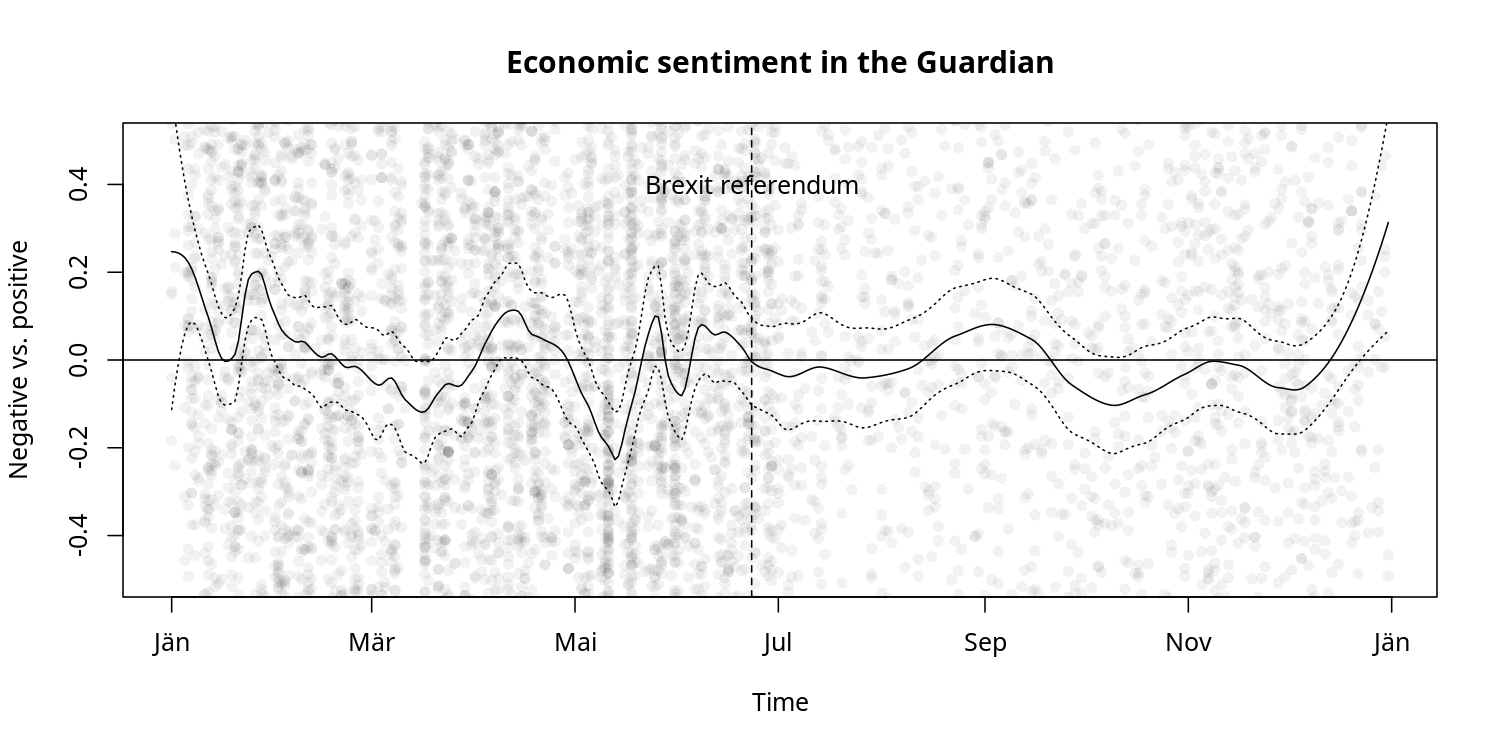
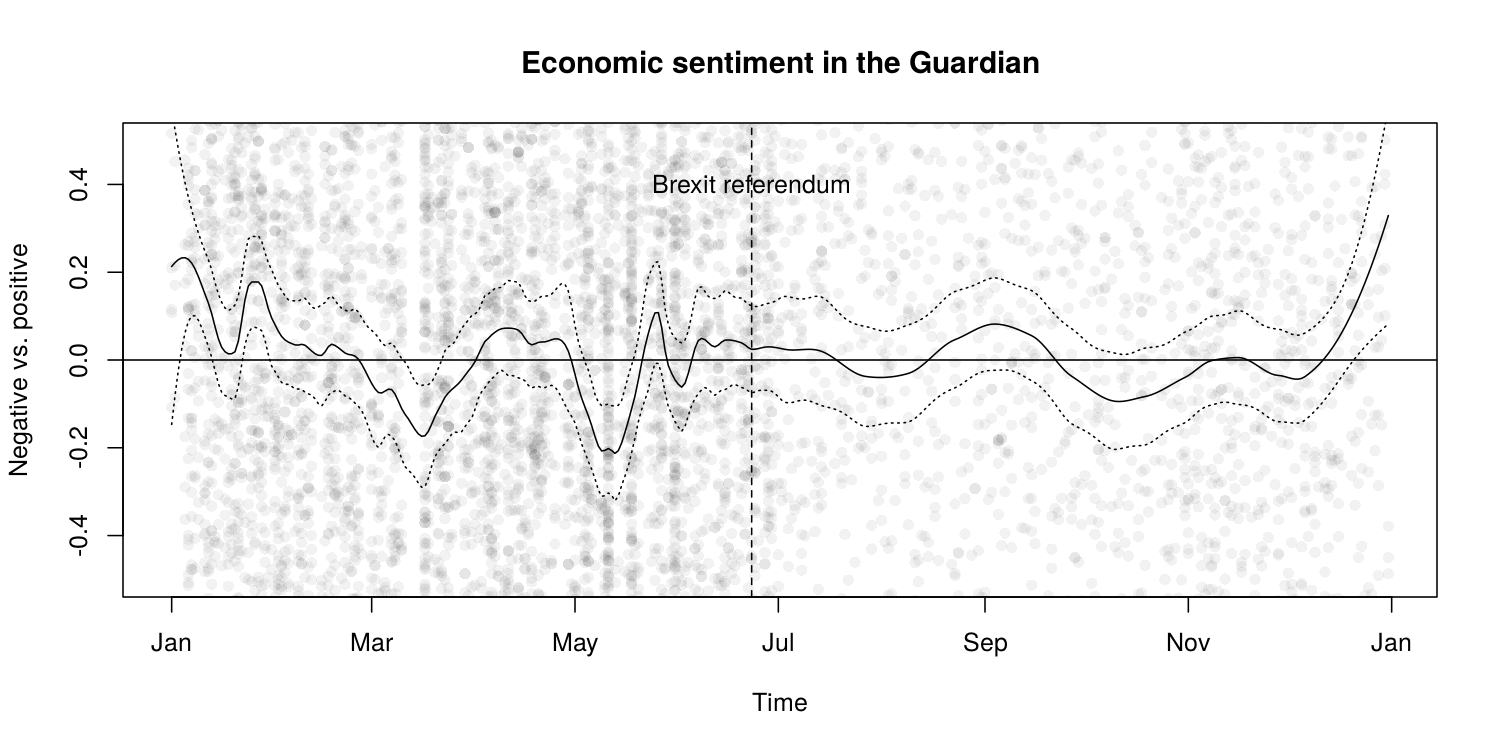
Update README and MAN

diff --git a/README.md b/README.md
@@ -32,6 +32,10 @@ recent research projects:
     Ukraine](http://www.tandfonline.com/eprint/tWik7KDfsZv8C2KeNkI5/full)",
     *Europe-Asia Studies*
 
+Please read [my working
+paper](https://blog.koheiw.net/wp-content/uploads/2020/04/LSS-06.pdf)"
+for the algorothm and methodolgy.
+
 ## How to install
 
 ``` r
@@ -68,11 +72,11 @@ dfmt_sent <- toks_sent %>%
     dfm_trim(min_termfreq = 5)
 
 eco <- char_keyness(toks_sent, "econom*", p = 0.05)
-tmod_lss <- textmodel_lss(dfmt_sent, as.seedwords(data_dictionary_sentiment),
-                          feature = eco, cache = TRUE)
+lss <- textmodel_lss(dfmt_sent, as.seedwords(data_dictionary_sentiment),
+                     feature = eco, cache = TRUE, k = 300)
 ```
 
-    ## Reading cache file: lss_cache/svds_a588a327e03cb074.RDS
+    ## Reading cache file: lss_cache/svds_34e08f32419c9eca.RDS
 
 ### Sentiment seed words
 
@@ -95,37 +99,37 @@ to seed
     words.
 
 ``` r
-head(coef(tmod_lss), 20) # most positive words
+head(coef(lss), 20) # most positive words
 ```
 
-    ##       legal       shape      either    positive      monday sustainable 
-    ##  0.04467974  0.04030600  0.03729081  0.03594595  0.03324765  0.03267820 
-    ##   expecting      decent    emerging     several        york   candidate 
-    ##  0.03235872  0.03105931  0.03077907  0.03048184  0.02915092  0.02874260 
-    ## challenging        able  powerhouse        asia    northern       thing 
-    ##  0.02799373  0.02758163  0.02700428  0.02689114  0.02672865  0.02663936 
-    ##        drag       stock 
-    ##  0.02627880  0.02617401
+    ##       shape      either    positive      monday   expecting sustainable 
+    ##  0.04017038  0.03745197  0.03602651  0.03352895  0.03307553  0.03277666 
+    ##      decent     several    emerging        york   candidate challenging 
+    ##  0.03084942  0.03080686  0.03046641  0.02925947  0.02883487  0.02801757 
+    ##      argued        able  powerhouse        asia       thing        drag 
+    ##  0.02770138  0.02753339  0.02724199  0.02715581  0.02663417  0.02638054 
+    ##       stock         aid 
+    ##  0.02608997  0.02603547
 
 ``` r
-tail(coef(tmod_lss), 20) # most negative words
+tail(coef(lss), 20) # most negative words
 ```
 
-    ##        allow      nothing       shrink      cutting      problem        grows 
-    ##  -0.03653112  -0.03718793  -0.03752405  -0.03762728  -0.03795939  -0.03860088 
-    ##         debt implications       happen policymakers    suggested    something 
-    ##  -0.03907404  -0.03925240  -0.03925315  -0.04015877  -0.04092905  -0.04308314 
-    ##     interest    borrowing unemployment         hike         rate        rates 
-    ##  -0.04312183  -0.04493415  -0.04511959  -0.04540284  -0.04862177  -0.04875790 
-    ##          rba     negative 
-    ##  -0.05088908  -0.06187295
+    ##     actually        allow      nothing      cutting       shrink        grows 
+    ##  -0.03527976  -0.03671954  -0.03702909  -0.03735588  -0.03815107  -0.03851795 
+    ##         debt implications policymakers    suggested     interest    something 
+    ##  -0.03872739  -0.03942620  -0.04015681  -0.04115879  -0.04288522  -0.04311322 
+    ##    borrowing unemployment         hike        rates         rate          rba 
+    ##  -0.04490576  -0.04508967  -0.04572553  -0.04857283  -0.04878567  -0.05076572 
+    ##          cut     negative 
+    ##  -0.05599481  -0.06169430
 
 This plot shows that frequent words (“said”, “people”, “also”) are
 neutral while less frequent words such as “borrowing”, “unemployment”,
 “emerging” and “efficient” are either negative or positive.
 
 ``` r
-textplot_scale1d(tmod_lss, 
+textplot_scale1d(lss, 
                  highlighted = c("said", "people", "also",
                                  "borrowing", "unemployment",
                                  "emerging", "efficient"))
@@ -147,7 +151,7 @@ neutral (overall mean) on the day of voting (broken line).
 dfmt <- dfm(corp)
 
 # predict sentiment scores
-pred <- as.data.frame(predict(tmod_lss, se.fit = TRUE, newdata = dfmt))
+pred <- as.data.frame(predict(lss, se.fit = TRUE, newdata = dfmt))
 pred$date <- docvars(dfmt, "date")
 pred <- na.omit(pred)
 
